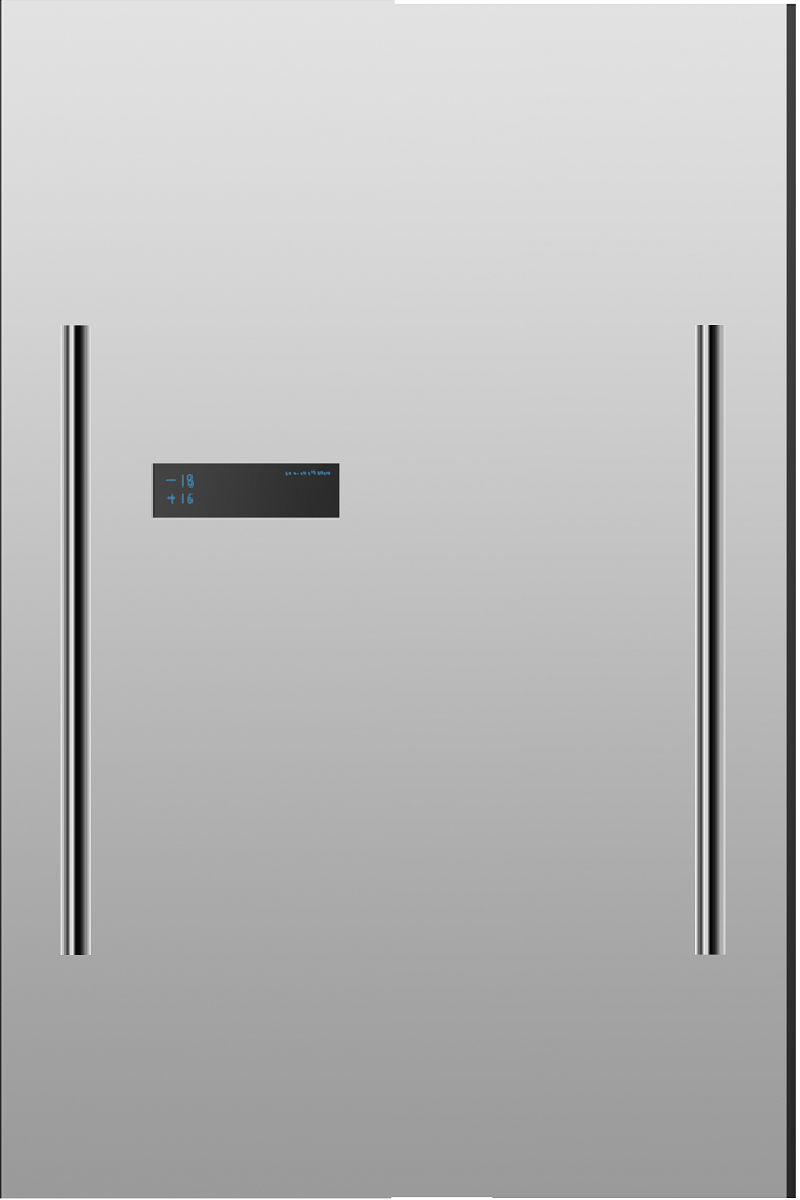
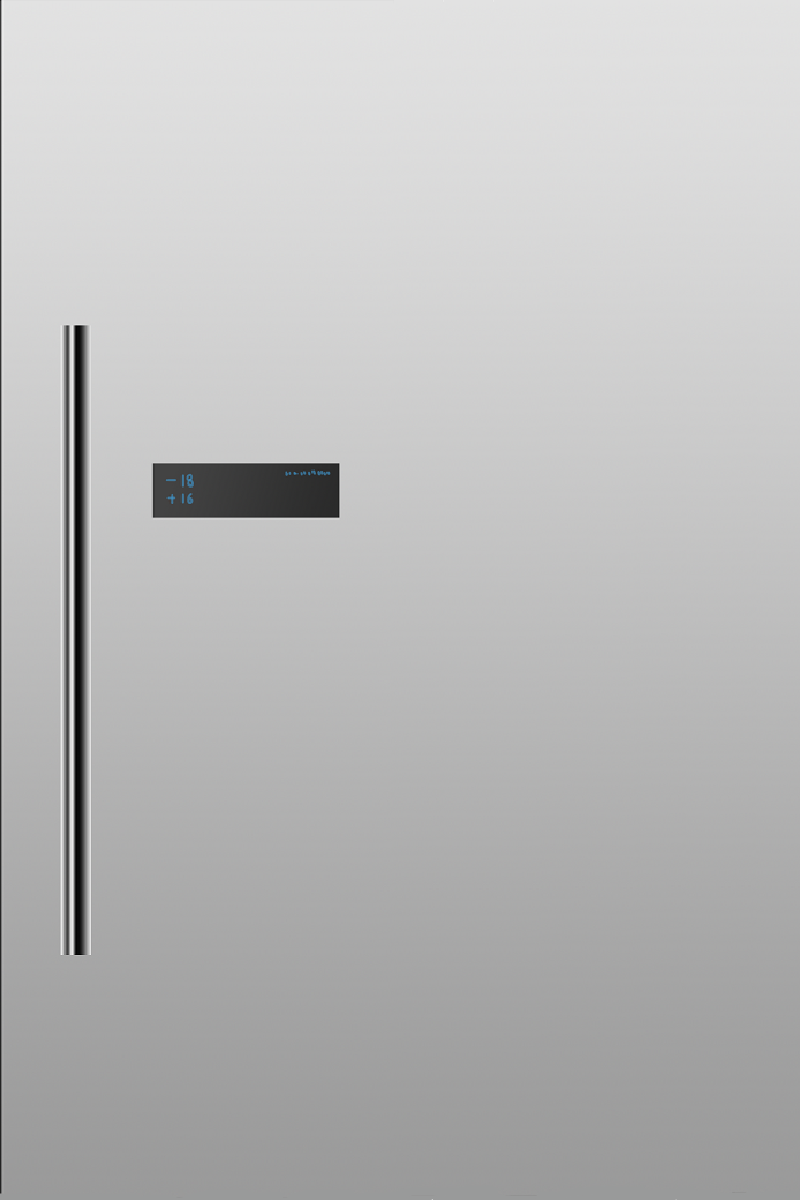
make_ref

Changed region(s): [[0.0, 0.0, 1.0, 1.0], [0.8438, 0.2467, 0.9062, 0.8017]]

diff --git a/test_ho/open the door/open.css b/test_ho/open the door/open.css
@@ -1,46 +1,18 @@
 @-webkit-keyframes left-DoorOpen {
     0% {
-      -webkit-transform: perspective(400px) rotateY(0deg); }
+      -webkit-transform: translate(0px, 0px); }
   
     100% {
-      -webkit-transform: perspective(400px) rotateY(-45deg); } }
-  
-  @-moz-keyframes left-DoorOpen {
-    0% {
-      -moz-transform: perspective(400px) rotateY(0deg); }
-  
-    100% {
-      -moz-transform: perspective(400px) rotateY(-45deg); } }
-  
-  @keyframes left-DoorOpen {
-    0% {
-      transform: perspective(400px) rotateY(0deg); }
-  
-    100% {
-      transform: perspective(400px) rotateY(-45deg); } }
+      -webkit-transform: translate(300px, 0px); } }
   
   @-webkit-keyframes right-DoorOpen {
     0% {
-      -webkit-transform: perspective(400px) rotateY(0deg); }
+      -webkit-transform: translate(0px, 0px); }
   
     100% {
-      -webkit-transform: perspective(400px) rotateY(45deg); } }
+      -webkit-transform: translate(-360px, 0px); } }
   
-  @-moz-keyframes right-DoorOpen {
-    0% {
-      -moz-transform: perspective(400px) rotateY(0deg); }
-  
-    100% {
-      -moz-transform: perspective(400px) rotateY(45deg); } }
-  
-  @keyframes right-DoorOpen {
-    0% {
-      transform: perspective(400px) rotateY(0deg); }
-  
-    100% {
-      transform: perspective(400px) rotateY(45deg); } }
-  
-  html, body, .door {
+  html, body, .door, .door2 {
     margin: 0;
     padding: 0;  
     overflow: hidden;
@@ -53,7 +25,7 @@
     background-repeat: no-repeat;
     background-position: center top;  
   }
-  
+/*   
   .wall {
     height: 100%;
     background-color: #CECECE;
@@ -68,13 +40,25 @@
     width: 25%;
     position: absolute;
     right: 0;
-    z-index: 1; }
+    z-index: 1; } */
   
   .door {
     float: left;
-    width: 50%;
+    width: 100%;
     position: relative;
-    background: url(test_res.png) 50%/ cover;
+    background: url(test_res2\(mobile\).png) 50%/ cover;
+    -webkit-animation-fill-mode: both;
+    -moz-animation-fill-mode: both;
+    animation-fill-mode: both;
+    -webkit-animation-duration: 2s;
+    -moz-animation-duration: 2s;
+    animation-duration: 2s; }
+  
+  .door2 {
+    float: right;
+    width: 100%;
+    position: relative;
+    background: url(test_res\(mobile\).png) 50%/ cover;
     -webkit-animation-fill-mode: both;
     -moz-animation-fill-mode: both;
     animation-fill-mode: both;
@@ -99,10 +83,8 @@
   
   .left-DoorOpen {
     -webkit-animation-name: left-DoorOpen;
-    -moz-animation-name: left-DoorOpen;
     animation-name: left-DoorOpen; }
   
   .right-DoorOpen {
     -webkit-animation-name: right-DoorOpen;
-    -moz-animation-name: right-DoorOpen;
     animation-name: right-DoorOpen; }

diff --git a/test_ho/open the door/open.html b/test_ho/open the door/open.html
@@ -14,14 +14,11 @@
     </head>
     <body>
       
-        <div class="wall"></div>
-        <div class="wall right"></div>
-      
         <div class="door right">
           <a href="#" data-name="right" class="door-handle"></a>
         </div>
       
-        <div class="door left">
+        <div class="door2 left">
           <a href="#" data-name="left" class="door-handle right"></a>
         </div>
         <script src="https://cdnjs.cloudflare.com/ajax/libs/jquery/2.1.3/jquery.min.js"></script>

diff --git a/frontend/src/components/Ref.vue b/frontend/src/components/Ref.vue
@@ -1,0 +1,16 @@
+<template>
+    <div style="margin:80px;">
+        <h1>여기는 냉장고</h1>
+    </div>
+
+</template>
+<script>
+// export default {
+//     name: 'ref', //얘는 과연 어디에 쓰이는 건가? 없어도 되나>?
+//     data() {
+//         return {
+//             data: "asd",
+//         }
+//     },
+// }
+</script>

diff --git a/frontend/src/components/MainHomePage.vue b/frontend/src/components/MainHomePage.vue
@@ -1,14 +1,19 @@
 <template>
+<v-content>
     <Search/>
+    <Ref/>
+</v-content>
 </template>
 
 <script>
 import Search from './search/Search'
+import Ref from './Ref'
 
 export default {
     name: 'MainHomePage',
     components: {
         Search,
+        Ref,
     },
     data() {
         return {

diff --git a/test_ho/open the door/open.js b/test_ho/open the door/open.js
@@ -8,4 +8,5 @@ $(".door-handle").on("click", function(){
     console.log(name)
     // add the animation to either the left or right door
     $(".door."+name).addClass(name+"-DoorOpen");
+    $(".door2." + name).addClass(name + "-DoorOpen");
 });

diff --git a/test_ho/open the door/20191024.md b/test_ho/open the door/20191024.md
@@ -1,0 +1,14 @@
+20191024
+---
+
+1. 냉장고 제작했으나 문이 양쪽으로 열리는 것을 구현하려 했으나 문이 완벽하게 보여지지 않음(반쪽만 보임)
+2. 문을 한쪽으로 열리게 하거나, 하나의 버튼으로 양쪽문이 열리게 구현해본 결과, 일단 한쪽으로 열리게
+   - 이 안을 유지한다면, 불필요한 코드 대거 삭제할 것
+3. test코드를 프로젝트로 이식해야하는데, css 범위가 겹치는 문제 발생.
+   - scoped를 사용한 범위 제한. ( 여러개의 컴포넌트 사용할 때 안겹칠지?)
+   - 일일히 class나 id를 줘서 구별하는게 편한지?
+4. Vue 공부 열심히 해야할듯.... HTML,CSS,JS를 Vue로 만들 줄 모르겠음.
+
+---
+
+내일 할 것.
